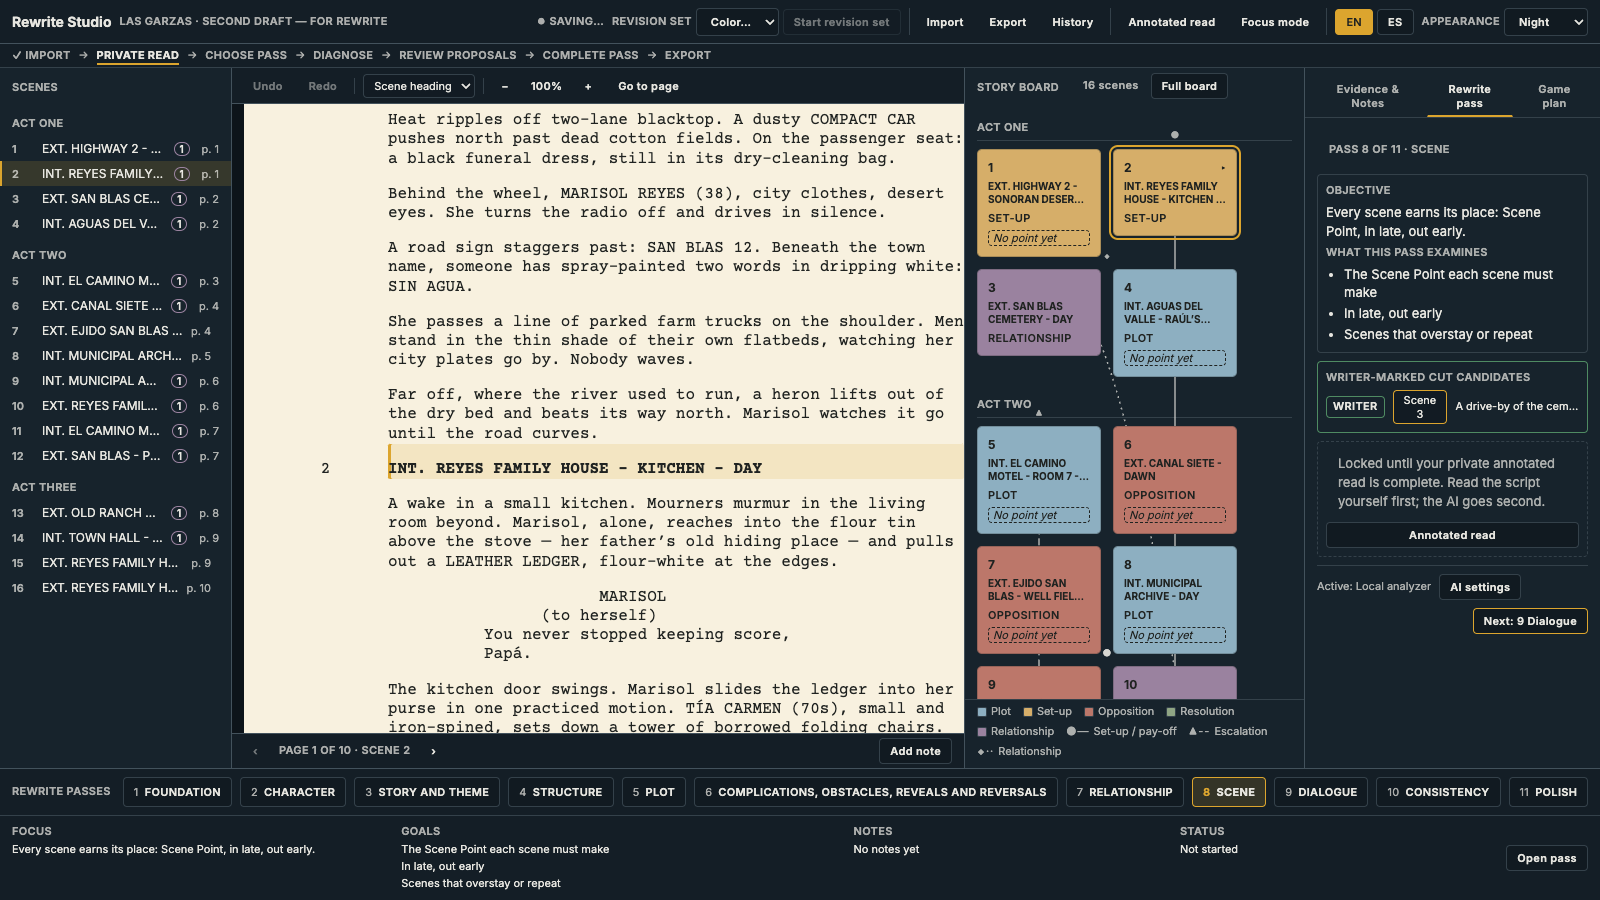
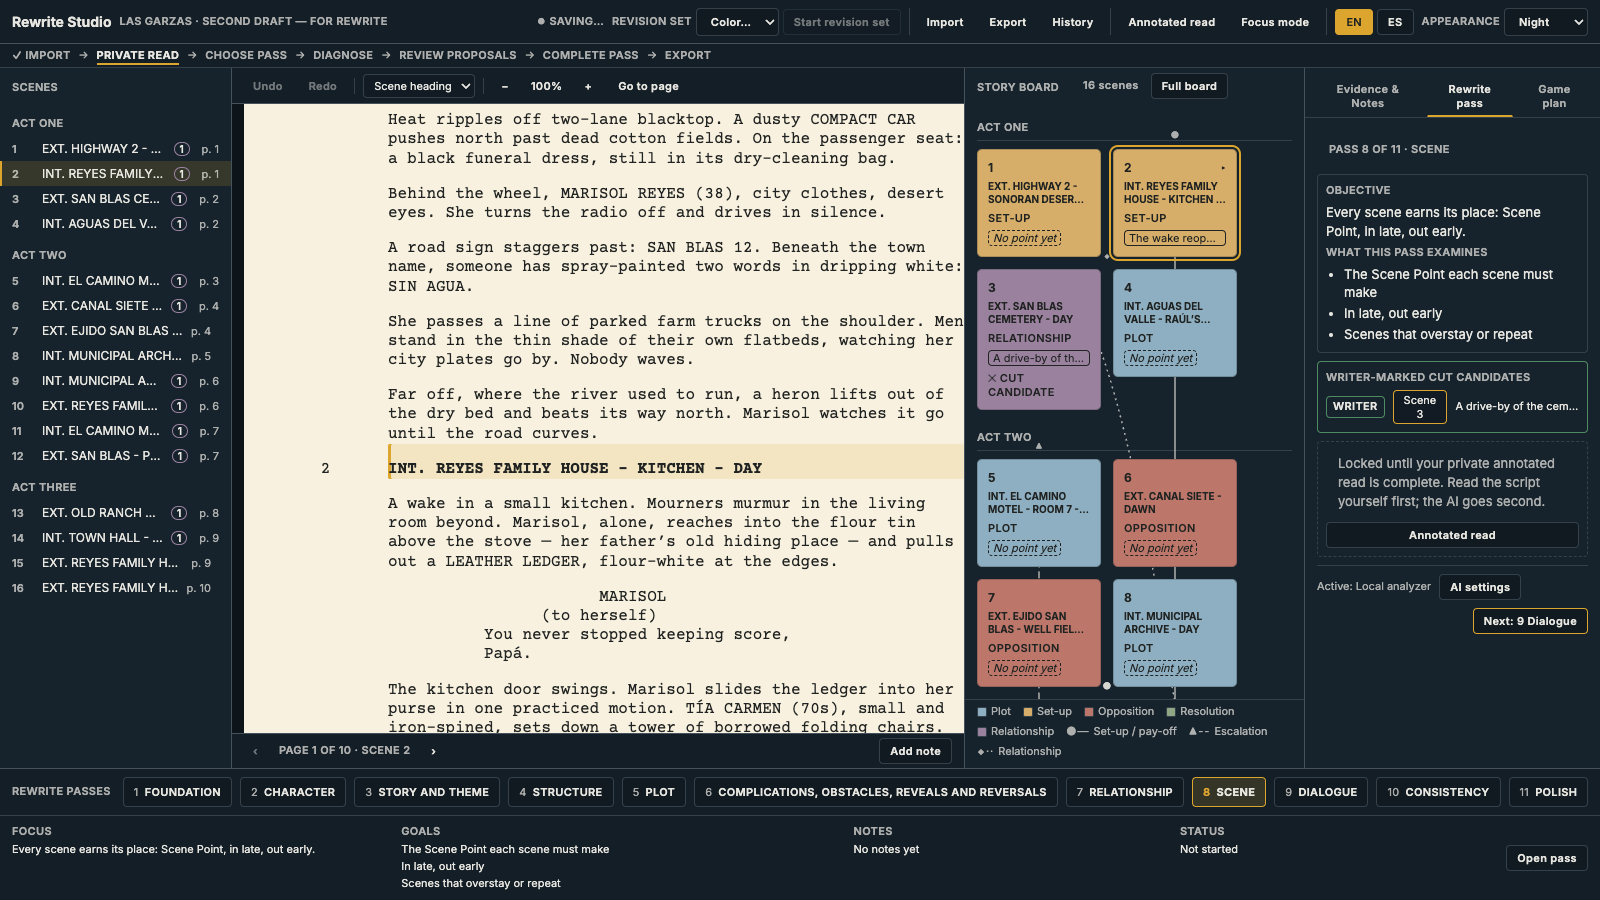
epps M2R proof: popover auto-scrolls into view, proof shots 02c/02d, handoff

Changed region(s): [[0.5938, 0.3733, 0.7812, 0.7778], [0.6875, 0.2489, 0.7812, 0.3111]]

diff --git a/src/board/StoryCard.tsx b/src/board/StoryCard.tsx
@@ -1,4 +1,4 @@
-import { useRef, useState } from 'react';
+import { useEffect, useRef, useState } from 'react';
 import { useDraggable, useDroppable } from '@dnd-kit/core';
 import { CSS } from '@dnd-kit/utilities';
 import type { Scene } from '../model/screenplay';
@@ -36,6 +36,12 @@ function ScenePointPopover({
   const updateScenePoint = useAppStore((s) => s.updateScenePoint);
   const [draft, setDraft] = useState(scenePoint.point);
   const closing = useRef(false);
+  const rootRef = useRef<HTMLDivElement>(null);
+
+  // The board scrolls; make sure the whole editor is visible when it opens.
+  useEffect(() => {
+    rootRef.current?.scrollIntoView?.({ block: 'nearest', inline: 'nearest' });
+  }, []);
 
   const save = (reason: 'enter' | 'blur') => {
     if (closing.current) return;
@@ -52,6 +58,7 @@ function ScenePointPopover({
 
   return (
     <div
+      ref={rootRef}
       role="dialog"
       aria-label={t('sp.title')}
       className="sp-card-pop"

diff --git a/docs/HANDOFF.md b/docs/HANDOFF.md
@@ -6,7 +6,9 @@ Billy approved `docs/plans/2026-07-12-epps-methodology-phase.md` (M1–M7) with 
 
 **M2 (Scene Point) is built, committed (`epps M2:`), and proven** after Billy accepted M1 — ScenePointCard in the Evidence tab (book placeholder, earns/unsure/cut verdict as words+icons, EXT-chipped dynamics sub-fields), "No point yet" board chips, analyzer scene lens citing exactly the unpointed scenes, writer-marked cut candidates in the Scene pass workspace, additive persistence. Proof: `docs/proof/epps/02*.png`. Counts after M2: **268 unit / 52 Playwright / build exit 0**. (Axe lesson: no reduced-opacity text on tinted cards — it fails AA contrast.)
 
-**Next action: WAIT for Billy's verdict on M2, then execute M3 (Set-Up / Payoff map) per the plan. Do not start M3 unprompted.**
+**M2R (inline Scene Point on board cards, Billy's direct-manipulation note) is built, committed (`epps M2R:`), and proven** — the card is now a frame (div) holding the main select/drag button plus a chip button (nested buttons fail axe); clicking "No point yet" opens an in-place popover (Enter saves / Escape cancels / blur saves, focus returns to the chip), the same popover sets the verdict, cards show point previews and UNSURE/CUT CANDIDATE word markers, the popover scrolls itself into view on open. `data-scene-card` stays on the main button; connections and drag tests use `data-card-frame`. Counts after M2R: **273 unit / 53 Playwright / build exit 0**. Proof: `docs/proof/epps/02c-02d`. Billy's standing preference: direct manipulation on the object itself over panel-only editing — carry this into M3+ (e.g. marking set-ups/payoffs should work from the line/card, not only a panel).
+
+**Next action: WAIT for Billy's verdict on M2R, then execute M3 (Set-Up / Payoff map) per the plan. Do not start M3 unprompted.**
 
 ## Where the previous pass left off
 

diff --git a/docs/proof/epps/README.md b/docs/proof/epps/README.md
@@ -32,4 +32,15 @@ cd /Users/quantumcode/CODE/REWRITING-GAUNTLET && node scripts/proof-epps.mjs
    visibly separate from AI findings; AI diagnosis still locked behind the
    private read.
 
+## M2R — inline Scene Point on the board (2026-07-13, Billy's direct-manipulation note)
+
+6. `02c-inline-editor-open.png` — the in-place editor open on the Scene 4 card:
+   point typed, "Unsure" chosen in the same popover. Enter saves, Escape
+   cancels, clicking away saves. Neighboring cards show the three chip states
+   at once: "No point yet" (dashed), point preview, CUT CANDIDATE marker.
+7. `02d-inline-saved-inspector-matches.png` — after Enter: the card shows the
+   point preview and "? UNSURE" marker, and the Evidence tab's Scene Point
+   card carries the identical point with Unsure pressed — one store, two
+   surfaces, zero drift.
+
 Later slices (M3–M7) append shots 03–08 here.
